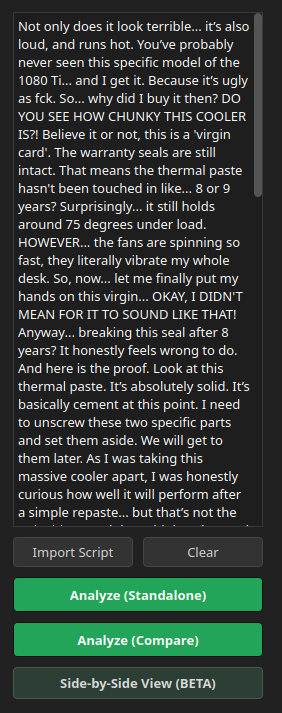
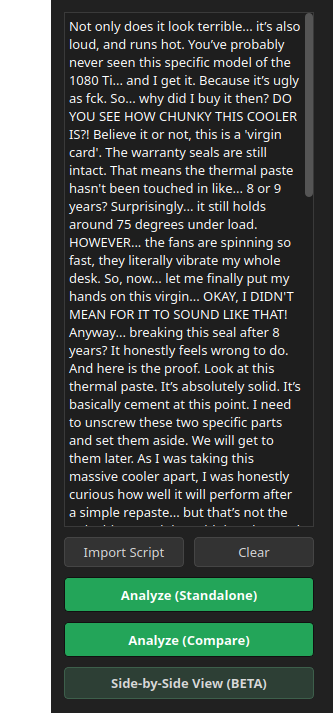
docs: add transparent margins to sidebar images and adjust markdown widths

diff --git a/docs/USER_GUIDE.md b/docs/USER_GUIDE.md
@@ -396,7 +396,7 @@ Pressing **Ctrl + F** (or Cmd + F on macOS) toggles the floating search bar:
 
 The **Main Panel** serves as the primary control center for manual word painting and quick assembly actions. It is organized into two sections:
 
-<img align="right" src="images/07a_sidebar_tools.png" alt="Sidebar Main Upper" width="240" style="padding-left: 5%;">
+<img align="right" src="images/07a_sidebar_tools.png" alt="Sidebar Main Upper" width="285">
 
 #### Upper Section: Marking Palette & Custom Colors
 - **Active Marker Selector:** Radio buttons to switch between **Red**, **Blue**, **Green**, **Eraser**, and custom markers. Shortcut keys `1`, `2`, `3`, `4` select these tools instantly.
@@ -405,7 +405,7 @@ The **Main Panel** serves as the primary control center for manual word painting
 
 <br clear="all">
 
-<img align="right" src="images/07b_sidebar_tools.png" alt="Sidebar Main Lower" width="240" style="padding-left: 5%;">
+<img align="right" src="images/07b_sidebar_tools.png" alt="Sidebar Main Lower" width="285">
 
 #### Lower Section: Favorites & Timeline Export
 - **Analysis Duration Indicator:** Displays exact stats on transcription processing time (e.g. *Analyzed in: 0.18min*).
@@ -428,7 +428,7 @@ The **Script Analysis Panel** houses intelligent alignment tools that automatica
   <img src="images/08a_script_analysis_sbs.png" alt="Script Analysis" width="100%">
 </p>
 
-<img align="right" src="images/08b_script_analysis_sbs.png" alt="Script Analysis Sidebar" width="240" style="padding-left: 5%;">
+<img align="right" src="images/08b_script_analysis_sbs.png" alt="Script Analysis Sidebar" width="285">
 
 #### Available Tools & Modes:
 - **Script Input Area & `Import Script`:** Paste your text or load `.txt`, `.docx`, or `.pdf` files. BadWords automatically strips formatting and normalizes whitespace.
@@ -499,7 +499,7 @@ The **Filler Words Panel** manages BadWords' built-in dictionary for identifying
 
 The **Assembly Panel** allows you to configure global display toggles and choose how each marker color is handled during timeline assembly or cut immediately from an active timeline.
 
-<img align="right" src="images/09_assembly_panel.png" alt="Assembly Panel" width="280" style="padding-left: 5%; padding-bottom: 3%;">
+<img align="right" src="images/09_assembly_panel.png" alt="Assembly Panel" width="325">
 
 #### Global Inaudible & Typos Toggles:
 - **`Show inaudible fragments`:** Controls how inaudible `(...)` tokens behave in the transcript canvas (see [Section 3.2](#32-inaudible-fragments)):
